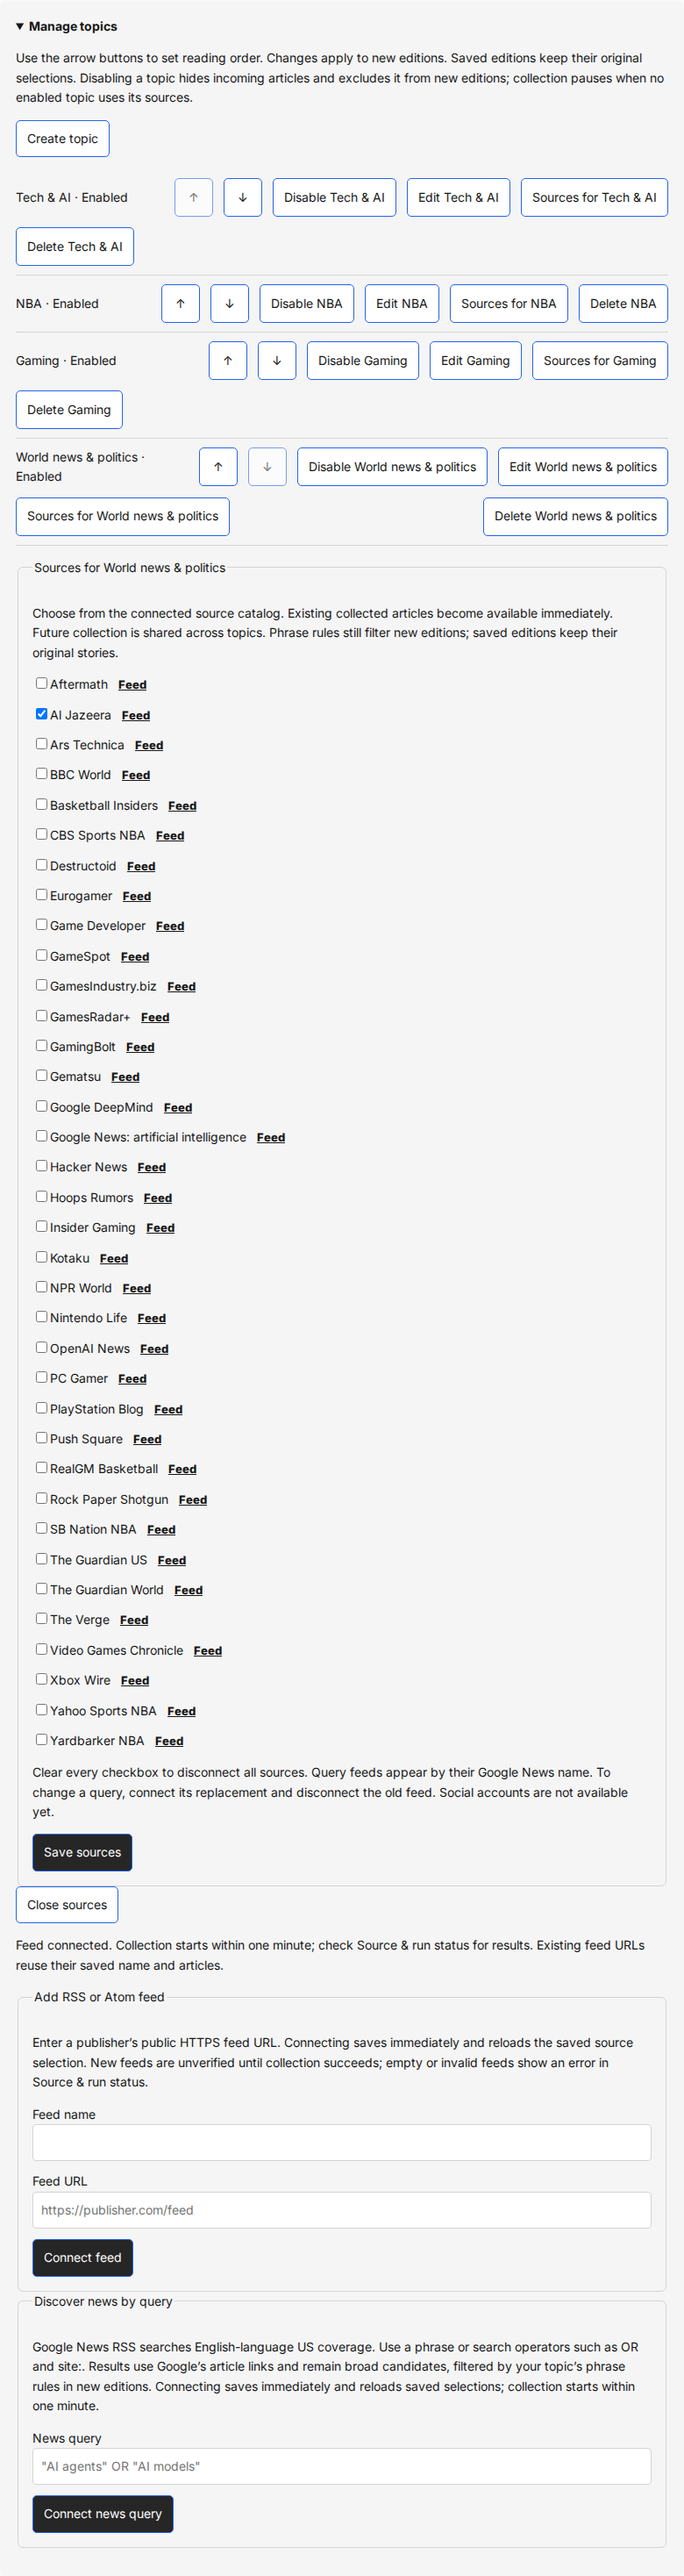
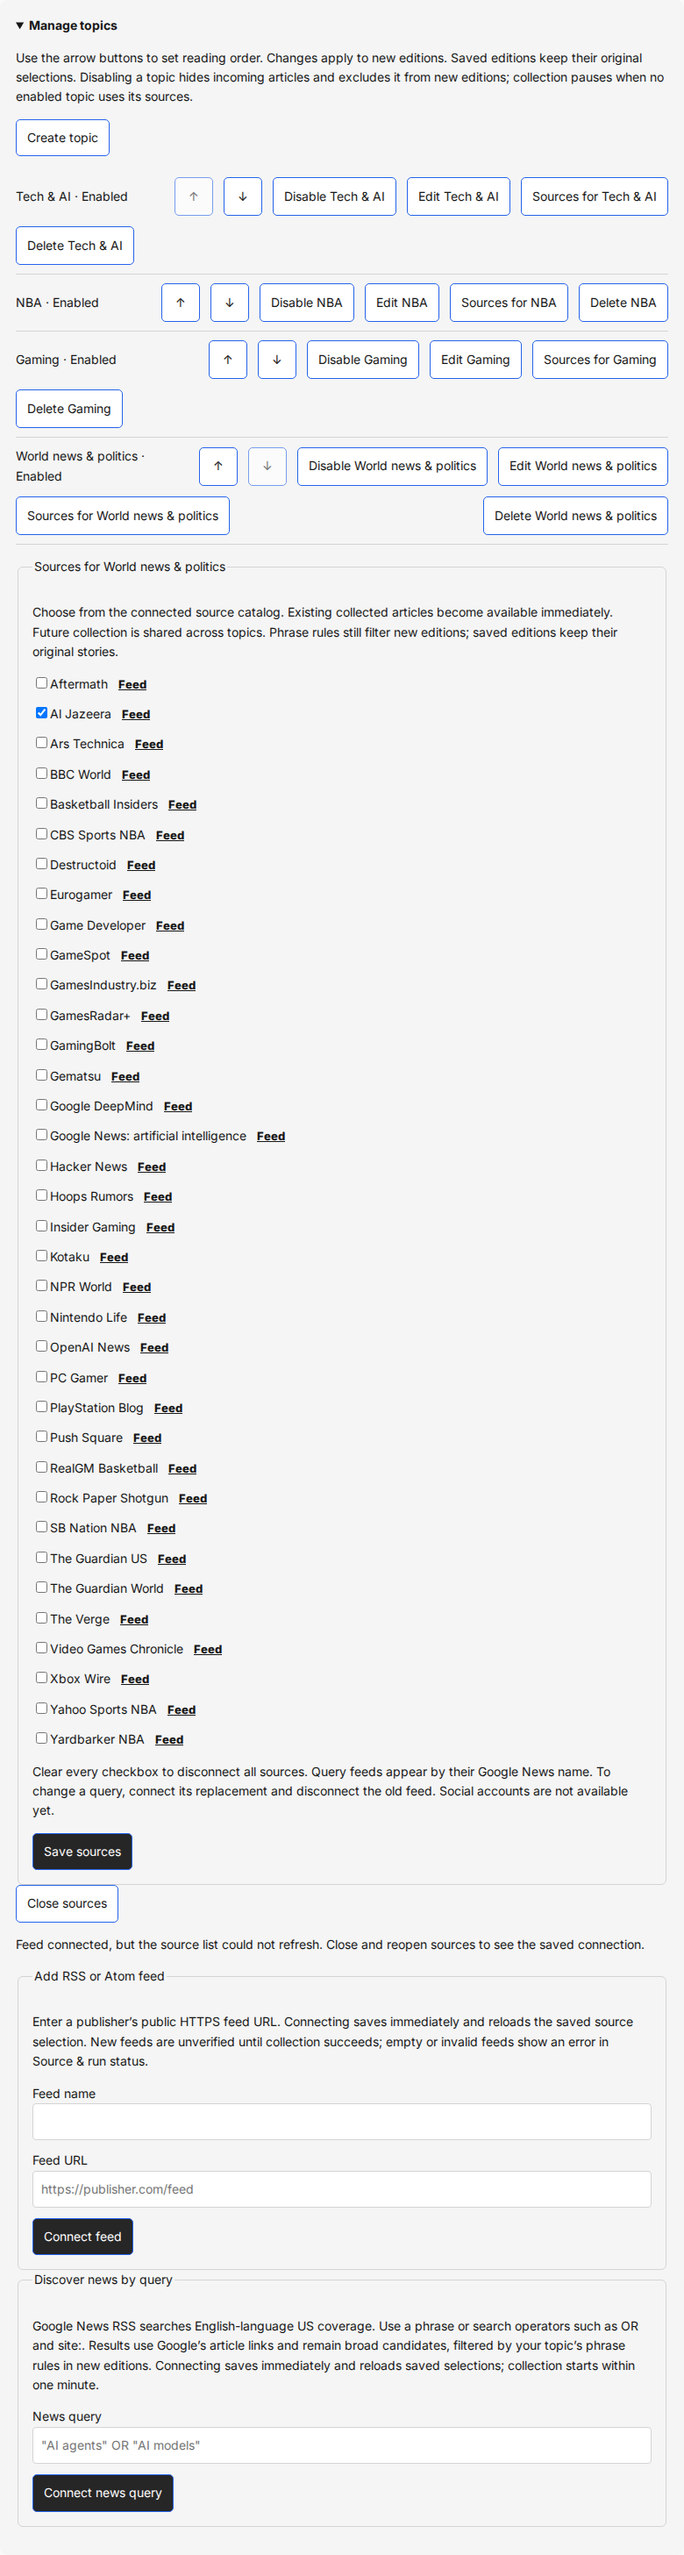
Clarify feed saves when connections or catalog refreshes fail

diff --git a/scripts/smoke-custom-feeds.ts b/scripts/smoke-custom-feeds.ts
@@ -74,6 +74,8 @@ async function smoke() {
         topic.id === target.id ? { ...topic, sources: [] } : topic,
       );
       let fail = true;
+      let disconnect = true;
+      let failRefresh = false;
       let writes = 0;
       const unexpectedWrites: string[] = [];
       await page.route('**/*', async (route) => {
@@ -96,10 +98,12 @@ async function smoke() {
             return route.fulfill({ status: 400, json: {} });
           }
           assert.equal(input.url, source.url);
+          if (disconnect) return route.abort();
           if (fail) return route.fulfill({ status: 503, json: {} });
           topics = topics.map((topic) =>
             topic.id === target.id ? { ...topic, sources: [source.id] } : topic,
           );
+          failRefresh = true;
           return route.fulfill({
             status: 201,
             json: topics.find((topic) => topic.id === target.id),
@@ -123,8 +127,13 @@ async function smoke() {
           return route.abort();
         }
         if (path === '/api/topics') return route.fulfill({ json: topics });
-        if (path === '/api/topics/sources')
+        if (path === '/api/topics/sources') {
+          if (failRefresh) {
+            failRefresh = false;
+            return route.fulfill({ status: 503, json: {} });
+          }
           return route.fulfill({ json: catalog });
+        }
         if (path === '/api/content')
           return route.fulfill({
             json: content.map((item) =>
@@ -196,6 +205,21 @@ async function smoke() {
       await connect.click();
       await page
         .getByRole('status')
+        .filter({ hasText: 'Could not confirm the feed connection.' })
+        .waitFor();
+      assert.equal(await name.inputValue(), source.name);
+      assert.equal(await url.inputValue(), source.url);
+      assert.deepEqual(
+        topics.find((topic) => topic.id === target.id)!.sources,
+        [],
+      );
+      await page.locator('.topic-settings').screenshot({
+        path: `docs/screenshots/custom-feeds-network-${device}.png`,
+      });
+      disconnect = false;
+      await connect.click();
+      await page
+        .getByRole('status')
         .filter({ hasText: 'Could not connect feed.' })
         .waitFor();
       assert.equal(await name.inputValue(), source.name);
@@ -207,7 +231,9 @@ async function smoke() {
       await connect.click();
       await page
         .getByRole('status')
-        .filter({ hasText: 'Feed connected.' })
+        .filter({
+          hasText: 'Feed connected, but the source list could not refresh.',
+        })
         .waitFor();
       assert.equal(await name.inputValue(), '');
       assert.equal(await url.inputValue(), '');
@@ -243,7 +269,7 @@ async function smoke() {
       await card
         .getByText('No sources connected yet.', { exact: false })
         .waitFor();
-      assert.equal(writes, 4);
+      assert.equal(writes, 5);
       assert.deepEqual(unexpectedWrites, []);
       assert.deepEqual(errors, []);
       assert.deepEqual(credentials, []);
@@ -264,7 +290,7 @@ async function smoke() {
         savedEdition,
       );
     console.log(
-      'Custom feeds desktop/mobile: validation response, save failure, retry, cleared fields, stored content, replay reload and disconnect passed; full live topics/profile/edition unchanged, browser writes guarded and credentials absent, no inference.',
+      'Custom feeds desktop/mobile: validation response, uncertain network outcome, save failure, confirmed save with refresh failure, cleared fields, stored content, replay reload and disconnect passed; full live topics/profile/edition unchanged, browser writes guarded and credentials absent, no inference.',
     );
   } finally {
     await browser.close();

diff --git a/apps/web/src/TopicSources.tsx b/apps/web/src/TopicSources.tsx
@@ -57,6 +57,7 @@ export function TopicSources({
     event.preventDefault();
     setBusy(true);
     setMessage('');
+    let connected = false;
     try {
       const response = await fetch(
         `/api/topics/${topic.id}/${search ? 'queries' : 'feeds'}`,
@@ -79,6 +80,7 @@ export function TopicSources({
         return;
       }
       const saved = topicSchema.parse(await response.json());
+      connected = true;
       onSaved(saved);
       setSelected(saved.sources);
       setFeedName('');
@@ -92,7 +94,9 @@ export function TopicSources({
       );
     } catch {
       setMessage(
-        'Could not refresh feed connections. Close and reopen sources to check before retrying.',
+        connected
+          ? 'Feed connected, but the source list could not refresh. Close and reopen sources to see the saved connection.'
+          : 'Could not confirm the feed connection. Your entries are still here. Close and reopen sources to check before retrying.',
       );
     } finally {
       setBusy(false);

diff --git a/PROGRESS.md b/PROGRESS.md
@@ -136,3 +136,12 @@
 - Verification: pnpm format; pnpm lint:fix; pnpm check; smoke-news-queries.ts; smoke-admin-gate.ts; git diff --check. All passed (exit 0): static checks, 497 unit and 214 isolated integration tests, browser replay, admin gate and diff check. Initial browser run used the idle save-button label during the pending state; corrected to Saving… and rerun passed.
 - TASKS updated; archived iterations 791–792 and completed markers 803–806. SOURCES/NEEDS_FROM_HUMAN unchanged: no source changes or new blockers. Verification-only change; no build/restart required under STEERING 22.
 - Next FIRST: Nov 5 15:00 UTC NBA/grouping/cost/latency review, fallback before scorer; X rounds after 21:00 UTC Nov 5/6. Admin identity/proxy verification remains pending; monitor metrics memory warning.
+
+## 2026-11-05: iteration 808 — distinguish feed connection and refresh failures
+
+- Started clean on main; no leftover work. Health/database/Redis and app services green; all 36 sources healthy, no failed retained digest runs. Metrics memory warning pending; scheduled edition still due 15:00 UTC.
+- Source settings now distinguish an unconfirmed network outcome (retain entries, check before retrying) from a confirmed connection whose catalog refresh failed (saved selection retained). Applies to feed and news-query connections; saved editions unchanged.
+- Custom-feed desktop/mobile replay covers network abort, HTTP rejection, confirmed save plus refresh failure, cleared inputs, reload and disconnect. Browser credentials absent/writes guarded; protected full live topics/profile/edition unchanged. Four outcome screenshots inspected.
+- Verification: pnpm format; pnpm lint:fix; pnpm build; pnpm check; smoke-custom-feeds.ts; smoke-admin-gate.ts; git diff --check. Initial browser ran before the build finished; rerun passed after deployment. Initial full check raced formatter/lint-fix and failed formatting; formatted affected file and reran. Foreground check then received signal 143 during integration tests; reran in a transient user service for a completed result. Full check passed (exit 0): 497 unit and 214 isolated integration tests.
+- Rebuilt app and restarted API; /healthz OK. Worker runtime unchanged. TASKS updated; SOURCES/NEEDS_FROM_HUMAN unchanged (no source changes/new blockers). No live writes or paid calls.
+- Next FIRST: Nov 5 15:00 UTC NBA/grouping/cost/latency review, fallback before scorer; X rounds after 21:00 UTC Nov 5/6. Admin identity/proxy verification remains pending.

diff --git a/TASKS.md b/TASKS.md
@@ -45,6 +45,8 @@ STEERING overrides older milestone notes; implementation history is in PROGRESS.
 
 ## Done markers
 
+- [x] Feed connection outcome messages (808): distinguish an unconfirmed network outcome from a confirmed save whose catalog refresh failed; desktop/mobile recovery replay checks retained entries, saved selections and unchanged live data.
+
 - [x] News-query pending-save recovery (807): desktop/mobile query, source-save/close and custom-feed controls lock during one held request; failure retains input, retry/reload/disconnect pass; protected live snapshots unchanged.
 
 - Completed iterations 803–806: [2026-11-05-completed-task-markers-807.md](docs/progress-archive/2026-11-05-completed-task-markers-807.md).
